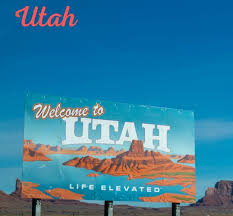
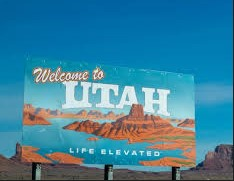
Week 3 Course Home Enhancement

diff --git a/index.html b/index.html
@@ -2,7 +2,7 @@
 <html lang="en-US">
     <head>
         <meta charset="utf-8">
-        <meta name="viewport" content = "width=device-width">
+        <meta name="viewport" content = "width=device-width,initial-scale=1.0">
         <title>Cigi Owens | WDD 130</title>
         <meta name="description" content ="Cigi Owens, WDD 130 class page">
         <meta name="author" content="Cigi Owens">
@@ -14,22 +14,37 @@
                 <a href="#">Home</a>
                 <a href="wwr/">Rafting Website</a>
                 <a href="wwr/site-plan-rafting.html">Rafting Site Plan</a>
+                <a href="https://www.linkedin.com/in/cigi-owens/">LinkedIn</a>
+                <a href="https://facebook.com">Facebook</a>
             </nav>
         </header>
         <main>
             <h1>Cigi Owens | WDD 130</h1>
             <img src="images/profile.jpeg" alt="Cigi Owens" width="200">
-            <p>Hello! My name is Cigi and this is my WDD 130 class Home Page.</p>
+            <p>Hello! My name is Cigi and this is my WDD 130 class Home Page.
+            <br>I am studying computer science at BYU-Idaho. 
+            <br>I love learning frontend and backend coding.
+            <br>This class is teaching me how to build and style a website!
+            <br>
+            <br>My interests include hiking, road cycling, bouldering, mountaineering, canyoneering, 
+            <br>and playing board games and video games with my kids.
+    
         </main>
-        <aside>
+        <aside class="box">
             <h2>Utah</h2>
             <img src="images/welcomeToUtah.jpeg" alt="Welcome to Utah sign" width="200">
             <p>Utah is a state in the Western United States. It borders Navada, Wyoming, Idaho, Colorado and Arizona. Utah is home to five National Parks.</p>
         </aside>
 
+        <ul class="box">
+            <li><a href="https://www.churchofjesuschrist.org/temples/details/salt-lake-temple?lang=eng" target=_blank>Salt Lake City, Utah Temple</a></li>
+            <li><a href="https://www.churchofjesuschrist.org/temples/details/bountiful-utah-temple?lang=eng" target=_blank>Bountiful, Utah Temple</a></li>
+            <li><a href="https://www.churchofjesuschrist.org/temples/details/taylorsville-utah-temple?lang=eng" target="_blank">Taylorsville, Utah Temple</a></li>
+        </ul>
+
         <footer>
             <p>©2024  |  Cigi Owens  |  Utah</p>
         </footer>
     </body>
-
+    <!-- Date last modified 05/07/2024  -->
 </html>

diff --git a/styles/styles.css b/styles/styles.css
@@ -1,3 +1,9 @@
+* {
+	margin: 0;
+	padding: 0;
+    box-sizing: border-box;
+}
+
 nav {
     background-color: steelblue;
     padding: 10px;
@@ -22,7 +28,7 @@ img {
 }
 
 p {
-    padding: 0;
+    padding: 0px;
 }
 
 main {
@@ -30,22 +36,40 @@ main {
 }
 
 main img {
-    width: 150px;
+    width: 150px; 
     height: auto;
+    float: right;
 }
 
 aside {
+    position: relative;
     width: 20rem;
-    margin: 1rem;
-    border: 1px solid rgba(0, 0, 0, 0.2);
-    padding: 1rem;
-    background-color: #eee;
-    color: #333;
     text-align: center;
+}
+
+aside img {
+    width: 200px;
+    height: auto;
+}
+
+aside h2{
+    position: absolute;
+    top: 32px;
+    left: 130px;
 }
 
 footer {
     margin-top: 15px;
     border-top: 1px solid #000;
     text-align: center;
+}
+
+/* Class Selectors */
+
+.box {
+    margin: 1rem;
+    border: 1px solid rgba(0,0,0,0.1);
+    padding: 1rem;
+    background-color: #f6f0f0;
+    color: #333;
 }

diff --git a/week02/box-model.html b/week02/box-model.html
@@ -3,7 +3,7 @@
     <head>
         <meta charset="utf-8">
         <meta name="viewport" content = "width=device-width">
-        <link rel="stylesheet" href="../styles/box-model.css">
+        <link rel="stylesheet" href="styles/box-model.css">
         <title>Box Model Activity</title>
     </head>
     <body>
